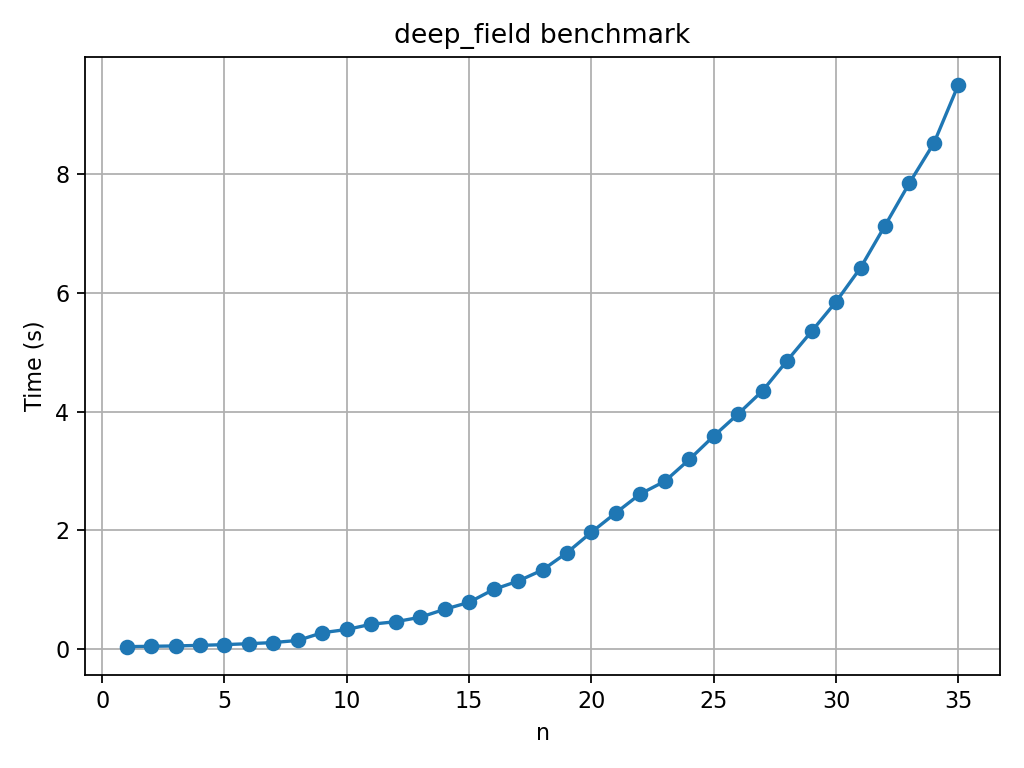
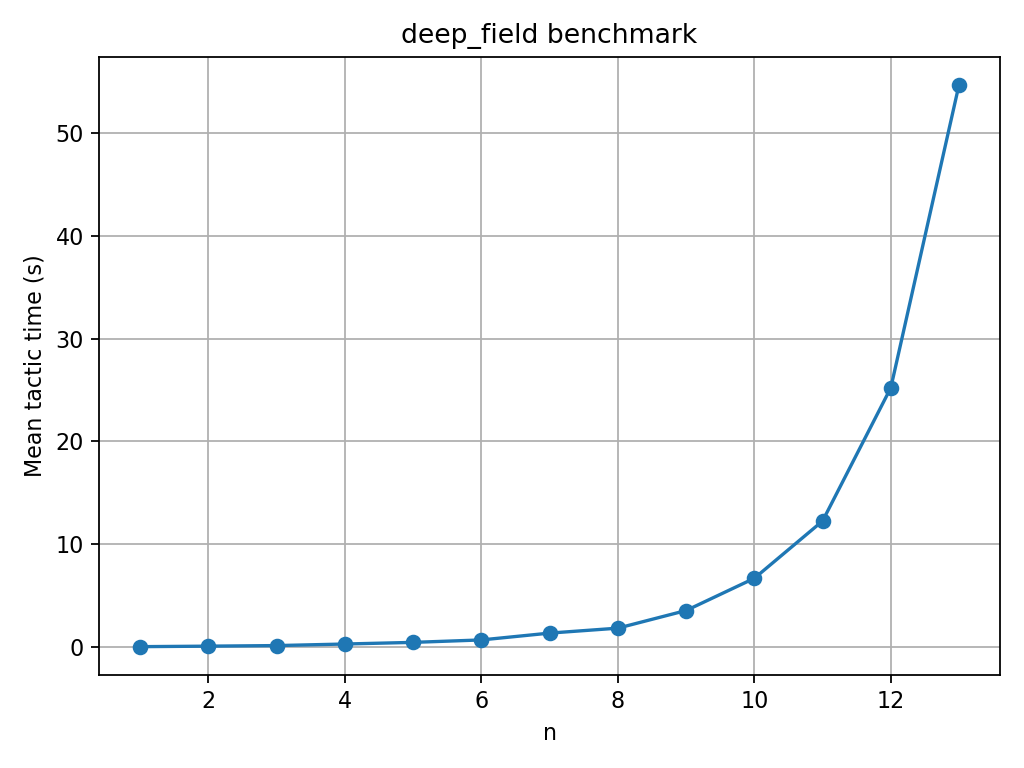
updating paper

diff --git a/documents/deep.tex b/documents/deep.tex
@@ -19,8 +19,7 @@
 }
 \geometry{margin=1in}
 \setlist[itemize]{leftmargin=*}
-\lstset{basicstyle=\small\ttfamily, columns=fullflexible, keepspaces=true,
-  frame=single, breaklines=true, backgroundcolor=\color{gray!7}}
+\lstset{numbers=left,basicstyle=\small\ttfamily, columns=fullflexible,keepspaces=true, frame=single, breaklines=true, backgroundcolor=\color{gray!7}}
 
 \title{Improving the Tactics \texttt{ring} and \texttt{field}\\
  }
@@ -43,15 +42,16 @@ We would like to formalize undergraduate mathematics in a style that remains clo
 This setting motivates the question of how algebraic automation should behave when an algebraic expression occurs inside a function that is not itself part of the algebraic theory handled by the tactic. For example, a student should ideally be able to write
 
 \[
-\ln(\pi^2+\pi\times\pi)=\ln(2\pi^2)
+\log(\pi^2+\pi\times\pi)=\log(2\pi^2)
 \]
 without having to explicitly expose the intermediate algebraic rewriting
 \[
 \pi^2+\pi\times\pi=2\pi^2.
 \]
 The proof assistant should be able to recognize and justify this transformation automatically.\newline
-The difficulty is that the outer function $\ln$ is not a ring operation. Consequently, the algebraic tactic cannot treat the whole expression as a ring expression. This raises a more general question: how can reflexive algebraic tactics simplify algebraic expressions occurring inside function applications that they do not otherwise understand?
+The difficulty is that the outer function $\ln$ is not a ring operation. Consequently, the algebraic tactic cannot treat the whole expression as a ring expression. 
 
+The existing \texttt{ring\_simplify} tactic addresses this issue for ring expressions by recursively simplifying algebraic expressions inside function applications. However, the analogous approach does not directly extend to field expressions. This raises the question of how to obtain a suitable representation of field expressions when they occur inside functions that the field normalizer does not handle.
 \section{Reflexive Algebraic Normalization}
 The starting point is the way Rocq's reflexive algebraic tactics normally solve
 equalities. Rather than applying a sequence of rewriting lemmas, the tactic
@@ -81,9 +81,9 @@ More generally, the process can be described in three steps:
 Although the arguments of the two logarithms are polynomial expressions, the complete terms
 
 $$
-  \ln(\pi^2+\pi\mathbin{\times}\pi)
+  \log(\pi^2+\pi\mathbin{\times}\pi)
   \qquad\text{and}\qquad
-  \ln(2\pi^2)
+  \log(2\pi^2)
 $$
 
 are themselves outside the polynomial language. At the level at which \texttt{ring} sees them, they therefore become distinct atoms. The tactic cannot discover that these atoms are equal by simplifying their arguments.
@@ -143,11 +143,10 @@ $$
 can be normalized to $2\pi^2$ before the surrounding $\ln$ application is considered. The two sides then contain the same function application, so the outer equality can be closed.
 
 This approach works naturally for \texttt{ring} because polynomial normalization provides a canonical representation of the algebraic expression. For \texttt{field}, however, the situation is more subtle.
+
 \subsection{Ring simplification versus field simplification}
 
-The recursive strategy described above is implemented by \texttt{ring\_simplify}, which simplifies algebraic expressions inside function applications by recursively normalizing their arguments. This works well for ring expressions because normalization gives a canonical polynomial representation.
-
-The analogous approach is less straightforward for field expressions. The \texttt{field\_simplify} tactic can establish equality by cross multiplication without reducing fractions to a common representation. As a result, simplifying field expressions inside an outer function requires an additional reduction step, which motivates the gcd-based approach developed below.
+The recursive strategy described above is implemented by \texttt{ring\_simplify}, which simplifies algebraic expressions inside function applications. An analogous approach using \texttt{field\_simplify} does not suffice for field expressions, as explained in the following section. 
 
 \section{The limitation of field normalization}
 Consider
@@ -188,7 +187,7 @@ $$
 
 by cross multiplication, but this proof does not require either fraction to
 be rewritten to a common representative. In particular, the two sides can
-remain syntactically different after field normalization.
+remain syntactically different after the \texttt{field\_simplify} calls.
 
 This distinction does not matter when the equality of the two fractions is
 the final goal. Once the cross-product equality and the required non-zero
@@ -226,16 +225,9 @@ $$
   \cos\left(\frac{2\pi}{4}\right).
 $$
 
-Cross multiplication alone does not provide this representation. It
-establishes an equality between fractions, but it does not require the
-numerator and denominator of each fraction to be divided by their common
-factor. This is the difference between proving that two expressions are
-equal and computing a representation that is useful for rewriting.
-
 A polynomial gcd provides the missing operation. Given a numerator
 $N$ and denominator $D$, we compute a common factor $G$ and corresponding
-quotients. The numerator and denominator can then be represented by
-reduced terms. For example,
+quotients.  For example,
 
 $$
   N=X^2-1,\qquad D=X+1
@@ -253,15 +245,12 @@ $$
   \frac{X-1}{1}.
 $$
 
-The reduction is useful here because the resulting numerator and
-denominator can be used as a common representation when the fraction occurs
-as an argument of a function not handled by the normalizer. The gcd computation is not needed to establish
-the equality of two fractions by cross multiplication. It is needed to
-produce a representation that can be propagated through the surrounding
-term.
+This reduction provides a common representation that can be propagated
+through an enclosing function application.
 
 
 \section{The gcd oracle}
+The gcd computation operates on the numerator and denominator extracted by the existing field-simplification procedure. We denote these polynomials by \(N\) and \(D\), respectively. The oracle computes a common factor and the corresponding quotients, which are then used to construct a reduced representation of the fraction.
 The field-simplification theorem has the following shape:
 \[
  \operatorname{Fnorm}(l,e)=r \Longrightarrow
@@ -310,6 +299,8 @@ $$
   \qquad
   mD=\delta\gamma.
 $$
+Here \(N\) and \(D\) are the numerator and denominator supplied to the oracle, while \(\nu\), \(\delta\), and \(\gamma\) are the returned numerator quotient, denominator quotient, and common factor, respectively. The scale factor \(m\) accounts for a possible difference between the polynomial representations used by the external computation and Rocq. Rocq verifies the two factorization identities and the non-zero condition on \(m\) before using the returned representation.
+
 
 The integer $m$ accounts for the fact that the polynomial representation
 used by the oracle may differ from the normalized representation used by
@@ -447,6 +438,52 @@ We use Buchberger's algorithm as part of the external polynomial computation; a 
 
 
 \section{The Rocq--ELPI--OCaml interface}
+\subsection{Experimental setup}
+To implement these ideas and make them available to users of the Rocq
+prover at an early experimental stage, we chose a design that re-uses as
+much as possible the current implementation of the {\tt ring}-like
+tactics but avoids modifying
+any part of the Rocq main program.  As a result, our experiments
+currently works with an unmodified version of the {\tt rocq-core}
+package, but a modified version of the {\tt rocq-stdlib} package.
+
+The code in {\tt rocq-runtime} assumes that all behavior of the {\tt
+  ring}-like tactics is governed by 4 lemmas, each of which is an
+instantiation of generic lemma parameterized by arbitrary ring or
+field structures.  In our case, we need to use an extra lemma that
+accounts for the possibility of calling an oracle after the
+reification step.  We added such a lemma in the {\tt rocq-stdlib}
+package, under the name {\tt Field\_rw\_pow\_correct\_w\_gcd}, its
+statement is modification of the existing {\tt
+  Field\_rw\_pow\_correct}, which is used by the existing
+{\tt field\_simplify} tactic.
+
+We then created tactics to harness the extra lemma and the oracle.
+Ultimately all these tactics should belong in the {\tt rocq-stdlib}
+package, but since recompiling the {\tt stdlib} package takes a few
+minutes on our computers, we chose to only include in {\tt
+  rocq-stdlib} the most stable part of this harness in {\tt stdlib},
+and to keep the part that was most unstable in a separate package.  As
+a result, we only have to recompile {\tt stdlib} on rare occasions,
+and fine-tuning the separate package between modifications and tests
+only takes a few seconds.
+
+We call the tactic that is in a separate package the finishing tactic.
+This tactic is passed as argument to all the new tactics we added to
+the {\tt rocq-stdlib} package under the name {\tt finish\_tac}.
+
+Four of the new tactics we defined are variations of {\tt field\_simplify},
+{\tt Field\_simplify}, {\tt Field\_simplify\_gen}, {\tt
+  Field\_norm\_gen}, and they are named by adding the {\tt \_w\_gcd}
+suffix to the name.  Two of the new tactics are variations of tactics
+from the {\tt ring} infrastructure where they are called
+{\tt ApplyLemmaThenAndCont} and {\tt ApplyLemmaThenAndCont}, but we
+preferred renaming them as {\tt rewrites} and {\tt one\_of\_rewrites}.
+
+In practice, the only change implemented by these variations is to
+make it possible to choose the justification lemma that is being used,
+and to call the finishing tactic for each of the rewrites performed by
+{\tt one\_of\_rewrites}.
 \subsection{Polynomial representations}
 
 
@@ -618,22 +655,22 @@ recursive functions:
 Fixpoint r (n : nat) (x : R) : R :=
   match n with
   | O => x
-  | S n' => sin (r n' x)
+  | S n' => sin ((2*x - 2)* r n' x /2)
   end.
 
 Fixpoint r_alt (n : nat) (x : R) : R :=
   match n with
   | O => x
-  | S n' => sin (2 * r_alt n' x / 2)
+  | S n' => sin ((x^2 - 1) * r_alt n' x / (x + 1))
   end.
 \end{lstlisting}
 
-For each depth $n$, we ask Rocq to prove
-\[
+For each depth $n$, we prove the following equality
+\[ forall x : R, forall p : x  + 1 <> 0,
   r(n,x)=r_{\mathrm{alt}}(n,x).
 \]
 The proof unfolds both recursive definitions, applies
-\texttt{deep\_field}, and finishes with \texttt{reflexivity}.
+\texttt{deep\_field}, and finishes with \texttt{reflexivity} and \texttt{nra} to get rid of side conditions.
 The experiment therefore measures the cost of simplifying algebraic
 expressions nested inside successive applications of $\sin$.
 
@@ -642,17 +679,13 @@ The benchmark measures both the tactic execution time and the total wall-clock t
 \begin{figure}[htbp]
   \centering
   \includegraphics[width=0.8\textwidth]{images/benchmark.png}
-  \caption{Quadratic fit to the measured execution times as a function of nesting depth $n$.}
+  \caption{Measured execution times as a function of nesting depth $n$.}
   \label{fig:quadratic-fit}
 \end{figure}
+We evaluated 13 instances, for $(1 \leq n \leq 13)$, running each instance 10 times and reporting the mean execution time. The mean tactic execution time increased from (0.038) seconds at (n=1) to (54.715) seconds at (n=13), while the mean wall-clock time increased from (0.499) seconds to (74.090) seconds.
 
-All 35 tested instances, for $1 \leq n \leq 35$, completed successfully. The tactic execution time increased from $0.042$ seconds at depth 1 to $9.506$ seconds at depth 35, an increase by a factor of approximately 226. The total wall-clock time increased from $0.502$ seconds to $12.123$ seconds over the same range.
+The execution time increases rapidly with the nesting depth. However, the practical relevance of this growth depends on the depths encountered in actual proofs. For undergraduate mathematical students it is unlikely to encounter more than say depth 5 formula, so the cost is acceptable. 
 
-Figure~\ref{fig:quadratic-fit} illustrates the quadratic model fitted to the execution-time measurements. A quadratic fit describes the observed timing data closely, while a linear model does not adequately capture the trend over the full range. However, the quality of this fit does not establish quadratic asymptotic complexity: the experiment covers a finite range of inputs and measures execution time rather than the number of computational steps.
-These results provide an initial assessment of the practical cost
-of the approach. A broader evaluation, including additional expression
-families and comparisons with alternative simplification strategies,
-would be needed to characterize its performance more generally.
 
 \section{Lessons learned}
 The implementation separates polynomial computation from proof construction. The OCaml oracle proposes polynomial factors, while Rocq verifies the algebraic identities needed to justify their use. This separation allows the extension to benefit from external computation without trusting the OCaml implementation for correctness.
